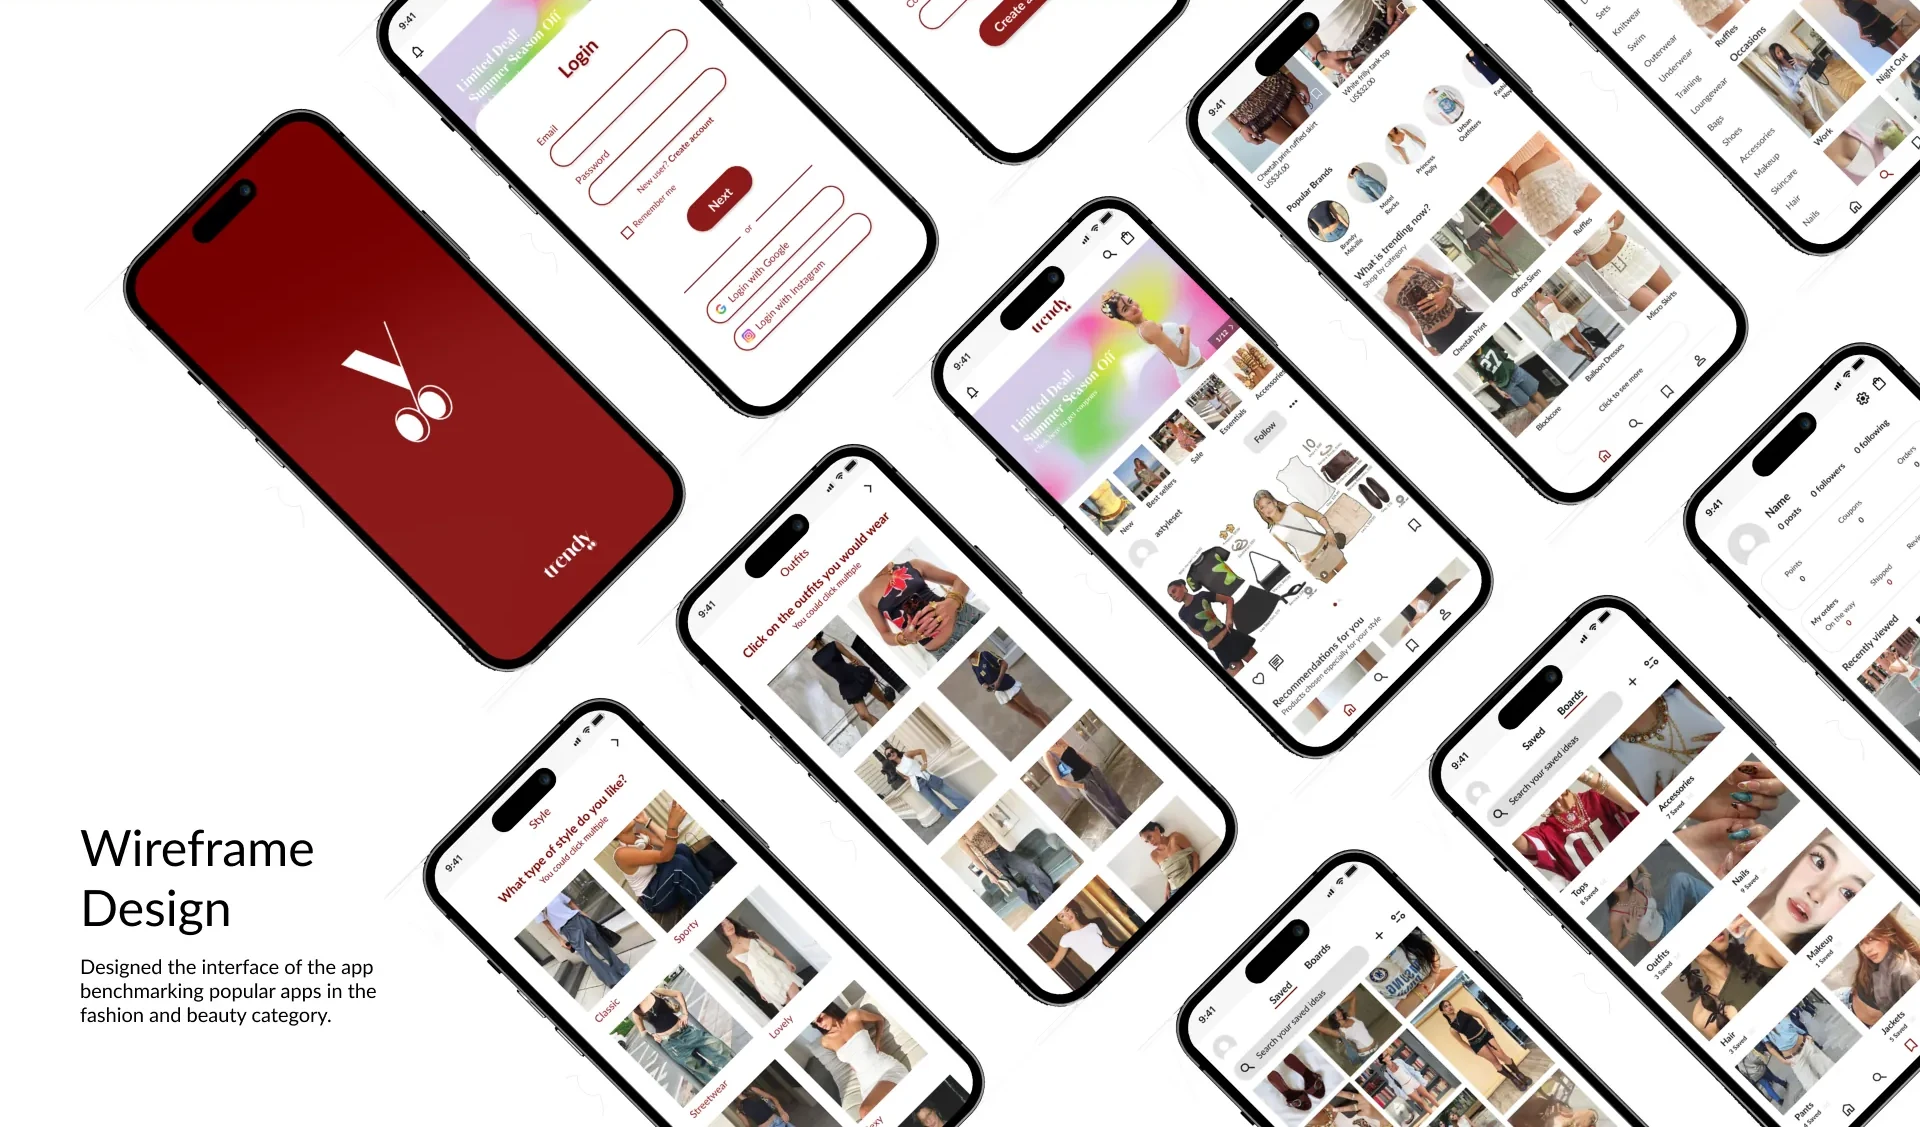
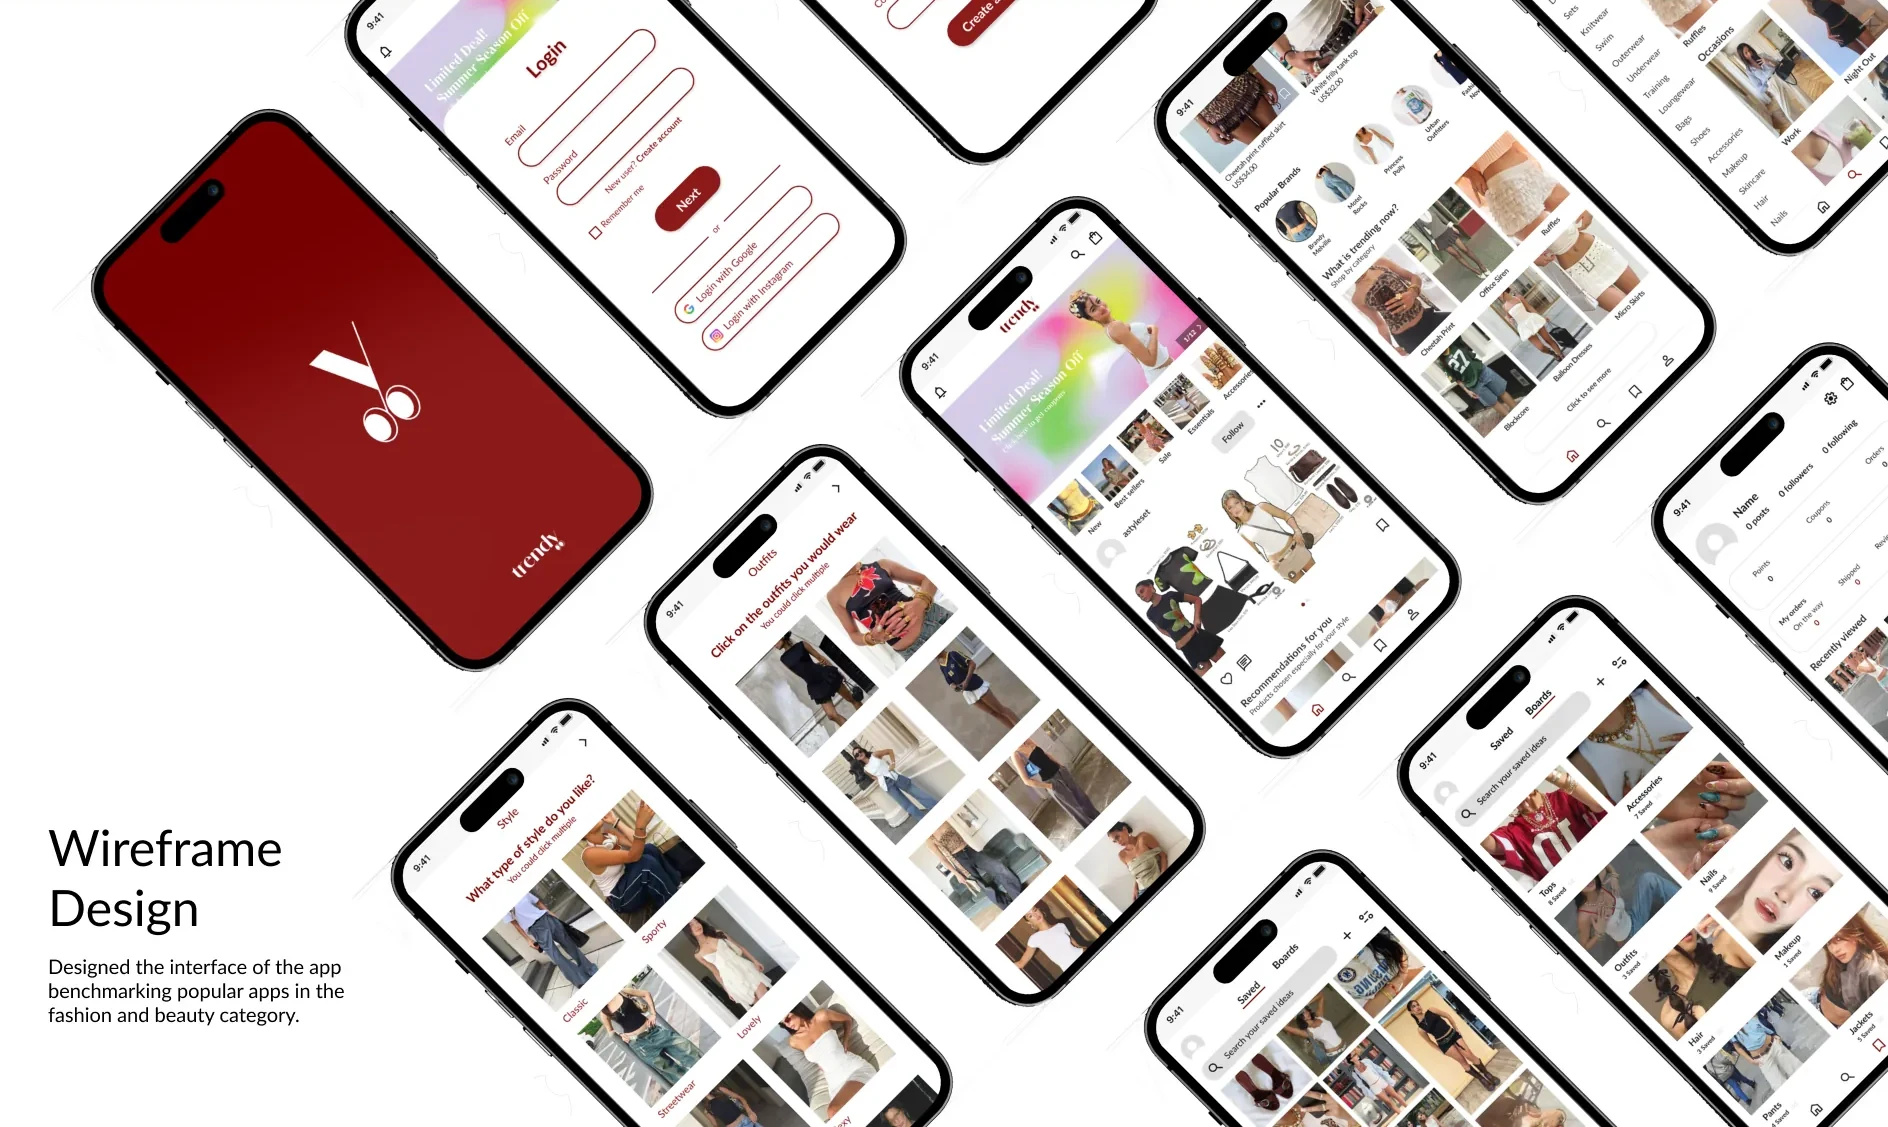
Trendy: crop each case-study section tightly to its content
Re-cuts the eight sections from the original board with even 48px padding
instead of full 1920px-wide slices, so content fills the width instead of
sitting in wide empty margins. Updates aspect ratios and the manifest;
As-is -> to-be is capped in width so its buttons don't scale up oversized.

Claude-Session: https://claude.ai/code/session_01XrSCNk8CdZFL88DQkgrBgR

diff --git a/trendy.html b/trendy.html
@@ -36,30 +36,30 @@
 </div></section>
 <section class="ni-sec"><h2 class="ni-h">What users told me</h2>
 <p class="ni-note">Interviews showed the status quo was tedious: too many sites, unclear trends and no idea where to buy.</p>
-<figure class="fg"><div class="fg-box" style="aspect-ratio:1920/981"><img alt="Interview quotes: shopping is so difficult" loading="lazy" onerror="this.hidden=true" src="images/trendy/04-interviews.webp"/></div></figure></section>
+<figure class="fg"><div class="fg-box" style="aspect-ratio:1683/921"><img alt="Interview quotes: shopping is so difficult" loading="lazy" onerror="this.hidden=true" src="images/trendy/04-interviews.webp"/></div></figure></section>
 <section class="ni-sec"><h2 class="ni-h">Competitor research</h2>
 <p class="ni-note">I compared Pinterest, Instagram and Cider across home, search, categories and purchase.</p>
-<figure class="fg"><div class="fg-box" style="aspect-ratio:1920/1065"><img alt="Competitor research: Pinterest, Instagram and Cider" loading="lazy" onerror="this.hidden=true" src="images/trendy/07-competitor-research.webp"/></div></figure>
+<figure class="fg"><div class="fg-box" style="aspect-ratio:1762/1160"><img alt="Competitor research: Pinterest, Instagram and Cider" loading="lazy" onerror="this.hidden=true" src="images/trendy/07-competitor-research.webp"/></div></figure>
 <div class="decs tr-ins"><div class="dec dec--head"><p>Insight</p><span></span><p>For Trendy</p></div>
 <div class="dec"><p class="dec-i">Saved inspiration gets lost in one long list</p><span aria-hidden="true" class="dec-arrow">→</span><p class="dec-d">Let users sort saved images into boards</p></div>
 <div class="dec"><p class="dec-i">Products in inspiration photos can’t be bought</p><span aria-hidden="true" class="dec-arrow">→</span><p class="dec-d">Make products in reference photos purchasable</p></div>
 <div class="dec"><p class="dec-i">Trends are hard to browse by type</p><span aria-hidden="true" class="dec-arrow">→</span><p class="dec-d">Categorize trends, with images of how people style them</p></div>
 </div></section>
 <section class="ni-sec"><h2 class="ni-h">Who it’s for</h2>
-<figure class="fg"><div class="fg-box" style="aspect-ratio:1920/625"><img alt="Target persona: Maria Johnson, 23, marketer" loading="lazy" onerror="this.hidden=true" src="images/trendy/05-persona.webp"/></div></figure>
+<figure class="fg"><div class="fg-box" style="aspect-ratio:1700/721"><img alt="Target persona: Maria Johnson, 23, marketer" loading="lazy" onerror="this.hidden=true" src="images/trendy/05-persona.webp"/></div></figure>
 <h3 class="ni-h ni-h--sm tr-sub">As-is → to-be</h3>
-<figure class="fg"><div class="fg-box" style="aspect-ratio:1920/620"><img alt="As-is versus to-be" loading="lazy" onerror="this.hidden=true" src="images/trendy/06-as-is-to-be.webp"/></div></figure></section>
+<figure class="fg" style="max-width:76rem; margin-inline:auto"><div class="fg-box" style="aspect-ratio:1360/715"><img alt="As-is versus to-be" loading="lazy" onerror="this.hidden=true" src="images/trendy/06-as-is-to-be.webp"/></div></figure></section>
 <section class="ni-sec"><h2 class="ni-h">User journey</h2>
 <p class="ni-note">Mapping emotions from opening the app to buying showed where frustration peaks, and where Trendy can help.</p>
-<figure class="fg"><div class="fg-box" style="aspect-ratio:1920/868"><img alt="User journey map" loading="lazy" onerror="this.hidden=true" src="images/trendy/08-journey-map.webp"/></div></figure></section>
+<figure class="fg"><div class="fg-box" style="aspect-ratio:1700/899"><img alt="User journey map" loading="lazy" onerror="this.hidden=true" src="images/trendy/08-journey-map.webp"/></div></figure></section>
 <section class="ni-sec"><h2 class="ni-h">The solution</h2>
-<figure class="fg"><div class="fg-box" style="aspect-ratio:1920/1084"><img alt="Problem solving: popular brands in one app, categorized trends and tagged products" loading="lazy" onerror="this.hidden=true" src="images/trendy/09-problem-solving.webp"/></div></figure>
+<figure class="fg"><div class="fg-box" style="aspect-ratio:1844/1017"><img alt="Problem solving: popular brands in one app, categorized trends and tagged products" loading="lazy" onerror="this.hidden=true" src="images/trendy/09-problem-solving.webp"/></div></figure>
 <div class="features" style="--n:3"><div class="feature"><span class="feat-n">01</span><h3>Discover trends</h3><p>Popular brands and the latest products in one place.</p></div><div class="feature"><span class="feat-n">02</span><h3>Find inspiration</h3><p>Trends sorted into categories, saved to your own boards.</p></div><div class="feature"><span class="feat-n">03</span><h3>Shop seamlessly</h3><p>Products tagged in photos, from trend to purchase.</p></div></div></section>
 <section class="ni-sec"><h2 class="ni-h">Brand</h2>
 <p class="ni-note">A deep red that is bold and trendy, with Lato for clean, readable type.</p>
-<figure class="fg"><div class="fg-box" style="aspect-ratio:1920/386"><img alt="Fonts and colors" loading="lazy" onerror="this.hidden=true" src="images/trendy/03-brand.webp"/></div></figure></section>
+<figure class="fg"><div class="fg-box" style="aspect-ratio:1644/482"><img alt="Fonts and colors" loading="lazy" onerror="this.hidden=true" src="images/trendy/03-brand.webp"/></div></figure></section>
 <section class="ni-sec"><h2 class="ni-h">Final screens</h2>
-<figure class="fg"><div class="fg-box" style="aspect-ratio:1920/1127"><img alt="Trendy mobile screens" loading="lazy" onerror="this.hidden=true" src="images/trendy/10-final-screens.webp"/></div></figure>
+<figure class="fg"><div class="fg-box" style="aspect-ratio:1888/1127"><img alt="Trendy mobile screens" loading="lazy" onerror="this.hidden=true" src="images/trendy/10-final-screens.webp"/></div></figure>
 <details class="more"><summary>View the full case study board</summary><figure class="fg tr-board"><div class="fg-box" style="aspect-ratio:1920/10179"><img alt="Trendy full case study board" loading="lazy" onerror="this.hidden=true" src="images/trendy/02-title-pa2ge.webp"/></div></figure></details></section>
 <footer class="site-foot" id="contact">
 <a class="next" href="now-institute.html"><span class="next-l">Next UX project</span><span class="next-t">Now Institute →</span></a>

diff --git a/images/MANIFEST.md b/images/MANIFEST.md
@@ -100,14 +100,14 @@ Until a file exists, the page shows a blank placeholder box at the correct size.
 |---|---|---|
 | `images/trendy/01-trendy.png` | trendy.png | 1909×1088 |
 | `images/trendy/02-title-pa2ge.png` | title_pa2ge.png | 1920×10179 |
-| `images/trendy/03-brand.webp` | title_pa2ge.png, brand section | 1920×386 |
-| `images/trendy/04-interviews.webp` | title_pa2ge.png, interviews section | 1920×981 |
-| `images/trendy/05-persona.webp` | title_pa2ge.png, persona section | 1920×625 |
-| `images/trendy/06-as-is-to-be.webp` | title_pa2ge.png, as is to be section | 1920×620 |
-| `images/trendy/07-competitor-research.webp` | title_pa2ge.png, competitor research section | 1920×1065 |
-| `images/trendy/08-journey-map.webp` | title_pa2ge.png, journey map section | 1920×868 |
-| `images/trendy/09-problem-solving.webp` | title_pa2ge.png, problem solving section | 1920×1084 |
-| `images/trendy/10-final-screens.webp` | title_pa2ge.png, final screens section | 1920×1127 |
+| `images/trendy/03-brand.webp` | title_pa2ge.png, brand section | 1644×482 |
+| `images/trendy/04-interviews.webp` | title_pa2ge.png, interviews section | 1683×921 |
+| `images/trendy/05-persona.webp` | title_pa2ge.png, persona section | 1700×721 |
+| `images/trendy/06-as-is-to-be.webp` | title_pa2ge.png, as is to be section | 1360×715 |
+| `images/trendy/07-competitor-research.webp` | title_pa2ge.png, competitor research section | 1762×1160 |
+| `images/trendy/08-journey-map.webp` | title_pa2ge.png, journey map section | 1700×899 |
+| `images/trendy/09-problem-solving.webp` | title_pa2ge.png, problem solving section | 1844×1017 |
+| `images/trendy/10-final-screens.webp` | title_pa2ge.png, final screens section | 1888×1127 |
 
 ## travel-mate.html — Travel Mate
 
